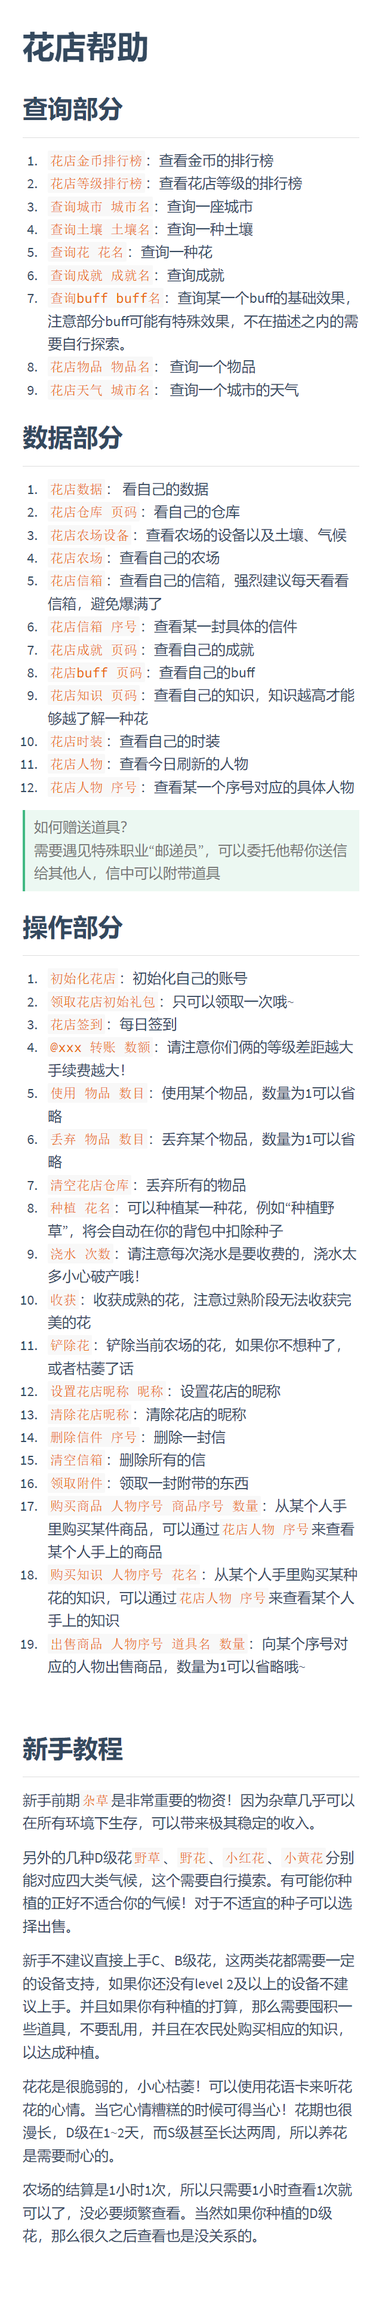
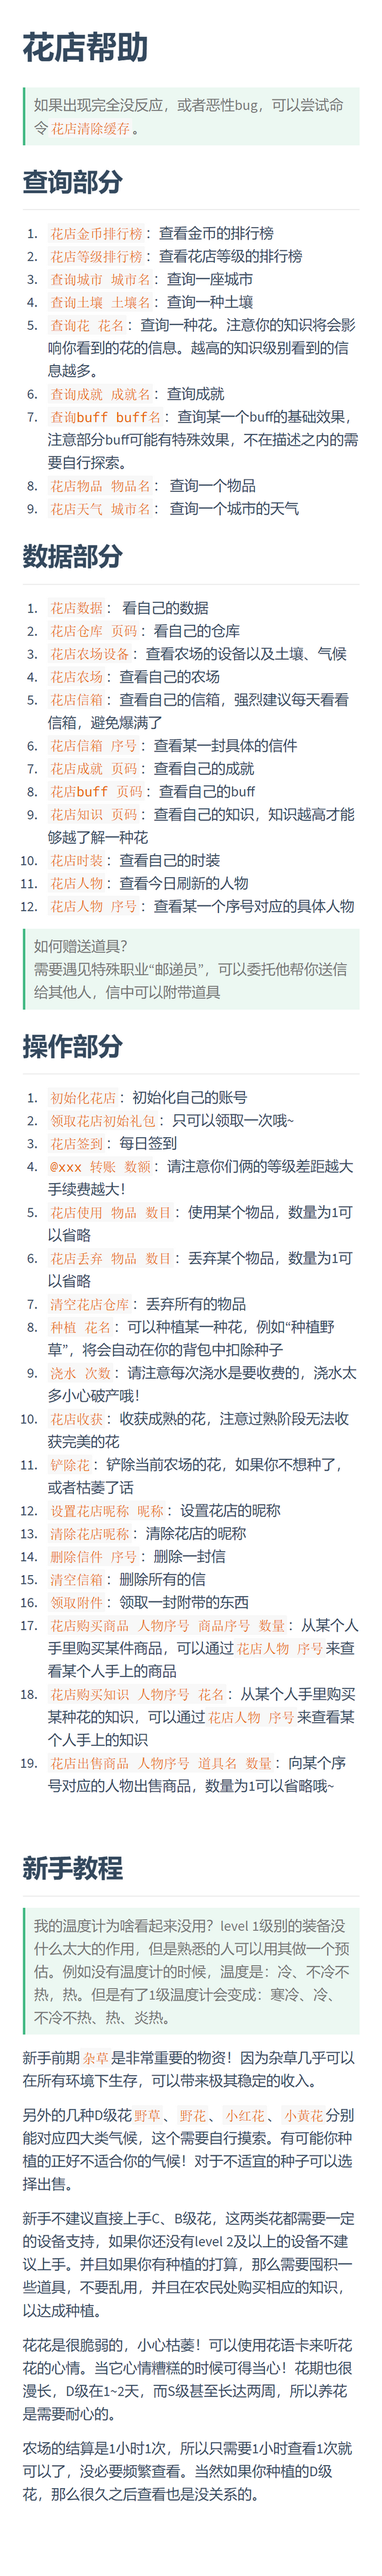
指令更改 & 清除缓存 & 排行榜优化

Changed region(s): [[0.0312, 0.0, 0.9375, 0.9974], [0.7812, 0.0312, 0.875, 0.0623], [0.7188, 0.0312, 0.75, 0.0623]]

diff --git a/flower.py b/flower.py
@@ -30,6 +30,16 @@ def handle(message: str, qq: int, username: str, bot_qq: int, bot_name: str, at_
     :return: 结果
     """
     try:
+        # 面对极端情况可以清除缓存
+        if len(at_list) == 0 and message == '花店清除缓存':
+            util.lock_user(qq)
+            origin_list, context_list = flower_dao.get_context(qq)
+            for context in origin_list:
+                flower_dao.remove_context(qq, context)
+            util.unlock_user(qq)
+            reply: str = '清除成功！'
+            return Result.init(reply_text=reply)
+    
         # 处理上下文需要加锁，避免两个线程同时处理到一个上下文
         util.lock_user(qq)
         context_handler: ContextHandler = ContextHandler()
@@ -202,8 +212,8 @@ def handle(message: str, qq: int, username: str, bot_qq: int, bot_name: str, at_
                 reply = FlowerService.user_sign_in(qq, username)
                 result.reply_text.append(reply)
                 return result
-            elif message[:2] == '使用':
-                data = message[2:].strip()
+            elif message[:4] == '花店使用':
+                data = message[4:].strip()
                 try:
                     util.lock_user(qq)
                     user: User = util.get_user(qq, username)
@@ -248,8 +258,8 @@ def handle(message: str, qq: int, username: str, bot_qq: int, bot_name: str, at_
                     raise TypeException('格式错误，格式“使用 【物品名字】 【数量】”')
                 except ItemNotFoundException:
                     raise TypeException('该物品不存在！')
-            elif message[:2] == '丢弃':
-                data = message[2:].strip()
+            elif message[:4] == '花店丢弃':
+                data = message[4:].strip()
                 try:
                     util.lock_user(qq)
                     user: User = util.get_user(qq, username)
@@ -315,7 +325,7 @@ def handle(message: str, qq: int, username: str, bot_qq: int, bot_name: str, at_
                     return result
                 except ValueError:
                     raise TypeException('格式错误，格式“浇水 【次数】”。次数可以省略，默认一次。')
-            elif message == '收获':
+            elif message == '花店收获':
                 reply = FlowerService.reward_flower(qq, username)
                 result.reply_text.append(reply)
                 return result
@@ -369,11 +379,11 @@ def handle(message: str, qq: int, username: str, bot_qq: int, bot_name: str, at_
                     return result
                 except ValueError:
                     raise TypeException('格式错误！格式“领取附件 【序号】”，领取某一封信的附件')
-            elif message[:4] == '购买商品':
-                data = message[4:].strip()
+            elif message[:6] == '花店购买商品':
+                data = message[6:].strip()
                 data_list = data.split(' ')
                 if len(data_list) < 2 or len(data_list) > 3:
-                    raise TypeException('格式错误！格式“购买商品 人物序号 商品序号 数量”数量为1可以省略，'
+                    raise TypeException('格式错误！格式“花店购买商品 人物序号 商品序号 数量”数量为1可以省略，'
                                         '人物序号可以通过命令“花店人物”查看')
                 try:
                     user_person_id: int = int(data_list[0])
@@ -386,13 +396,13 @@ def handle(message: str, qq: int, username: str, bot_qq: int, bot_name: str, at_
                     result.reply_text.append(reply)
                     return result
                 except ValueError:
-                    raise TypeException('格式错误！格式“购买商品 人物序号 商品序号 数量”数量为1可以省略，'
+                    raise TypeException('格式错误！格式“花店购买商品 人物序号 商品序号 数量”数量为1可以省略，'
                                         '人物序号可以通过命令“花店人物”查看')
-            elif message[:4] == '购买知识':
-                data = message[4:].strip()
+            elif message[:6] == '花店购买知识':
+                data = message[6:].strip()
                 data_list = data.split(' ')
                 if len(data_list) != 2:
-                    raise TypeException('格式错误！格式“购买知识 人物序号 花名”，人物序号可以通过命令“花店人物”查看')
+                    raise TypeException('格式错误！格式“花店购买知识 人物序号 花名”，人物序号可以通过命令“花店人物”查看')
                 try:
                     user_person_id: int = int(data_list[0])
                     flower_name: str = data_list[1]
@@ -400,9 +410,9 @@ def handle(message: str, qq: int, username: str, bot_qq: int, bot_name: str, at_
                     result.reply_text.append(reply)
                     return result
                 except ValueError:
-                    raise TypeException('格式错误！格式“购买知识 人物序号 花名”，人物序号可以通过命令“花店人物”查看')
-            elif message[:4] == '出售商品':
-                data = message[4:].strip()
+                    raise TypeException('格式错误！格式“花店购买知识 人物序号 花名”，人物序号可以通过命令“花店人物”查看')
+            elif message[:6] == '花店出售商品':
+                data = message[6:].strip()
                 data_list = data.split(' ')
                 try:
                     if len(data_list) < 1:
@@ -455,18 +465,18 @@ def handle(message: str, qq: int, username: str, bot_qq: int, bot_name: str, at_
                     result.reply_text.append(reply)
                     return result
                 except TypeException or ValueError:
-                    raise TypeException('格式错误，格式“出售商品 【人物序号】 【物品名字】 【数量】”数量为1可以省略')
+                    raise TypeException('格式错误，格式“花店出售商品 【人物序号】 【物品名字】 【数量】”数量为1可以省略')
                 except ItemNotFoundException:
                     raise TypeException('该物品不存在！')
         else:
-            if message[:2] == '转账':
-                data: str = message[2:]
+            if message[:4] == '花店转账':
+                data: str = message[4:]
                 try:
                     origin_gold: float = float(data)
                     origin_gold *= 100.0
                     gold: int = int(origin_gold)
                 except ValueError:
-                    raise TypeException('格式错误，格式“@xxx 转账 【数字】”')
+                    raise TypeException('格式错误，格式“@xxx 花店转账 【数字】”')
                 reply = FlowerService.transfer_accounts(qq, username, at_list, gold)
                 result.reply_text.append(reply)
                 return result
@@ -2804,6 +2814,8 @@ class FlowerService:
         res += '\n出生地：' + born_city.city_name
         res += '\n所在城市：' + city.city_name
         res += '\n金币：' + util.show_gold(user.gold)
+        gold_rank: int = flower_dao.get_gold_rank(qq) + 1
+        res += '（排名：%d）' % gold_rank
         res += '\n仓库：' + str(len(user.warehouse.items)) + '/' + str(user.warehouse.max_size)
         res += '\n今日还能抽到物品：' + str(user.draw_card_number)
         res += '\n已在花店%d天' % ((datetime.now() - user.create_time).total_seconds() // global_config.day_second + 1)

diff --git a/flower_dao.py b/flower_dao.py
@@ -324,7 +324,7 @@ def get_total_gold_rank() -> List[Tuple[str, float]]:
     """
     获取某个人的金币排行
     """
-    return redis_db.zrevrange(redis_user_gold_rank, 0, 10, withscores=True)
+    return redis_db.zrevrange(redis_user_gold_rank, 0, 9, withscores=True)
 
 
 def put_exp_rank(qq: int, exp: int):
@@ -346,7 +346,7 @@ def get_total_exp_rank() -> List[Tuple[str, float]]:
     """
     获取某个人的金币排行
     """
-    return redis_db.zrevrange(redis_user_exp_rank, 0, 10, withscores=True)
+    return redis_db.zrevrange(redis_user_exp_rank, 0, 9, withscores=True)
 
 
 ####################################################################################################

diff --git a/doc/帮助.md b/doc/帮助.md
@@ -1,12 +1,14 @@
 # 花店帮助
 
+> 如果出现完全没反应，或者恶性bug，可以尝试命令`花店清除缓存`。
+
 ## 查询部分
 
 1. `花店金币排行榜`：查看金币的排行榜
 2. `花店等级排行榜`：查看花店等级的排行榜
 3. `查询城市 城市名`：查询一座城市
 4. `查询土壤 土壤名`：查询一种土壤
-5. `查询花 花名`：查询一种花
+5. `查询花 花名`：查询一种花。注意你的知识将会影响你看到的花的信息。越高的知识级别看到的信息越多。
 6. `查询成就 成就名`：查询成就
 7. `查询buff buff名`：查询某一个buff的基础效果，注意部分buff可能有特殊效果，不在描述之内的需要自行探索。
 8. `花店物品 物品名`： 查询一个物品
@@ -37,25 +39,27 @@
 2. `领取花店初始礼包`：只可以领取一次哦~
 3. `花店签到`：每日签到
 4. `@xxx 转账 数额`：请注意你们俩的等级差距越大手续费越大！
-5. `使用 物品 数目`：使用某个物品，数量为1可以省略
-6. `丢弃 物品 数目`：丢弃某个物品，数量为1可以省略
+5. `花店使用 物品 数目`：使用某个物品，数量为1可以省略
+6. `花店丢弃 物品 数目`：丢弃某个物品，数量为1可以省略
 7. `清空花店仓库`：丢弃所有的物品
 8. `种植 花名`：可以种植某一种花，例如“种植野草”，将会自动在你的背包中扣除种子
 9. `浇水 次数`：请注意每次浇水是要收费的，浇水太多小心破产哦！
-10. `收获`：收获成熟的花，注意过熟阶段无法收获完美的花
+10. `花店收获`：收获成熟的花，注意过熟阶段无法收获完美的花
 11. `铲除花`：铲除当前农场的花，如果你不想种了，或者枯萎了话
 12. `设置花店昵称 昵称`：设置花店的昵称
 13. `清除花店昵称`：清除花店的昵称
 14. `删除信件 序号`：删除一封信
 15. `清空信箱`：删除所有的信
 16. `领取附件`：领取一封附带的东西
-17. `购买商品 人物序号 商品序号 数量`：从某个人手里购买某件商品，可以通过`花店人物 序号`来查看某个人手上的商品
-18. `购买知识 人物序号 花名`：从某个人手里购买某种花的知识，可以通过`花店人物 序号`来查看某个人手上的知识
-19. `出售商品 人物序号 道具名 数量`：向某个序号对应的人物出售商品，数量为1可以省略哦~
+17. `花店购买商品 人物序号 商品序号 数量`：从某个人手里购买某件商品，可以通过`花店人物 序号`来查看某个人手上的商品
+18. `花店购买知识 人物序号 花名`：从某个人手里购买某种花的知识，可以通过`花店人物 序号`来查看某个人手上的知识
+19. `花店出售商品 人物序号 道具名 数量`：向某个序号对应的人物出售商品，数量为1可以省略哦~
 
 
 
 ## 新手教程
+
+> 我的温度计为啥看起来没用？level 1级别的装备没什么太大的作用，但是熟悉的人可以用其做一个预估。例如没有温度计的时候，温度是：冷、不冷不热，热。但是有了1级温度计会变成：寒冷、冷、不冷不热、热、炎热。
 
 新手前期`杂草`是非常重要的物资！因为杂草几乎可以在所有环境下生存，可以带来极其稳定的收入。
 
